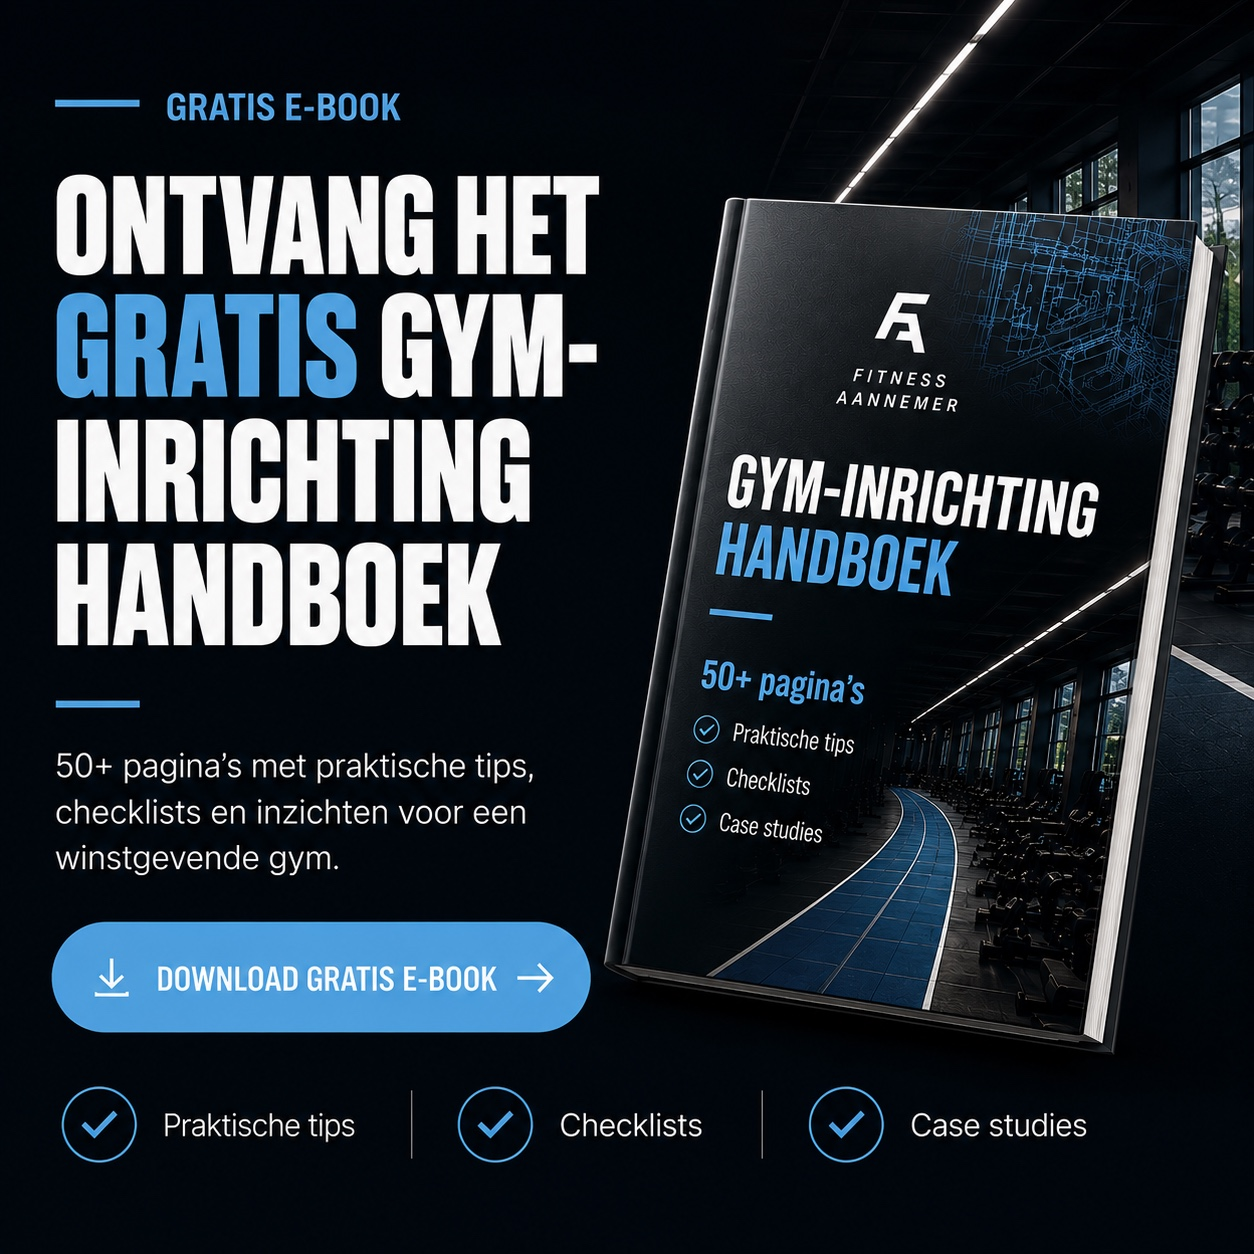
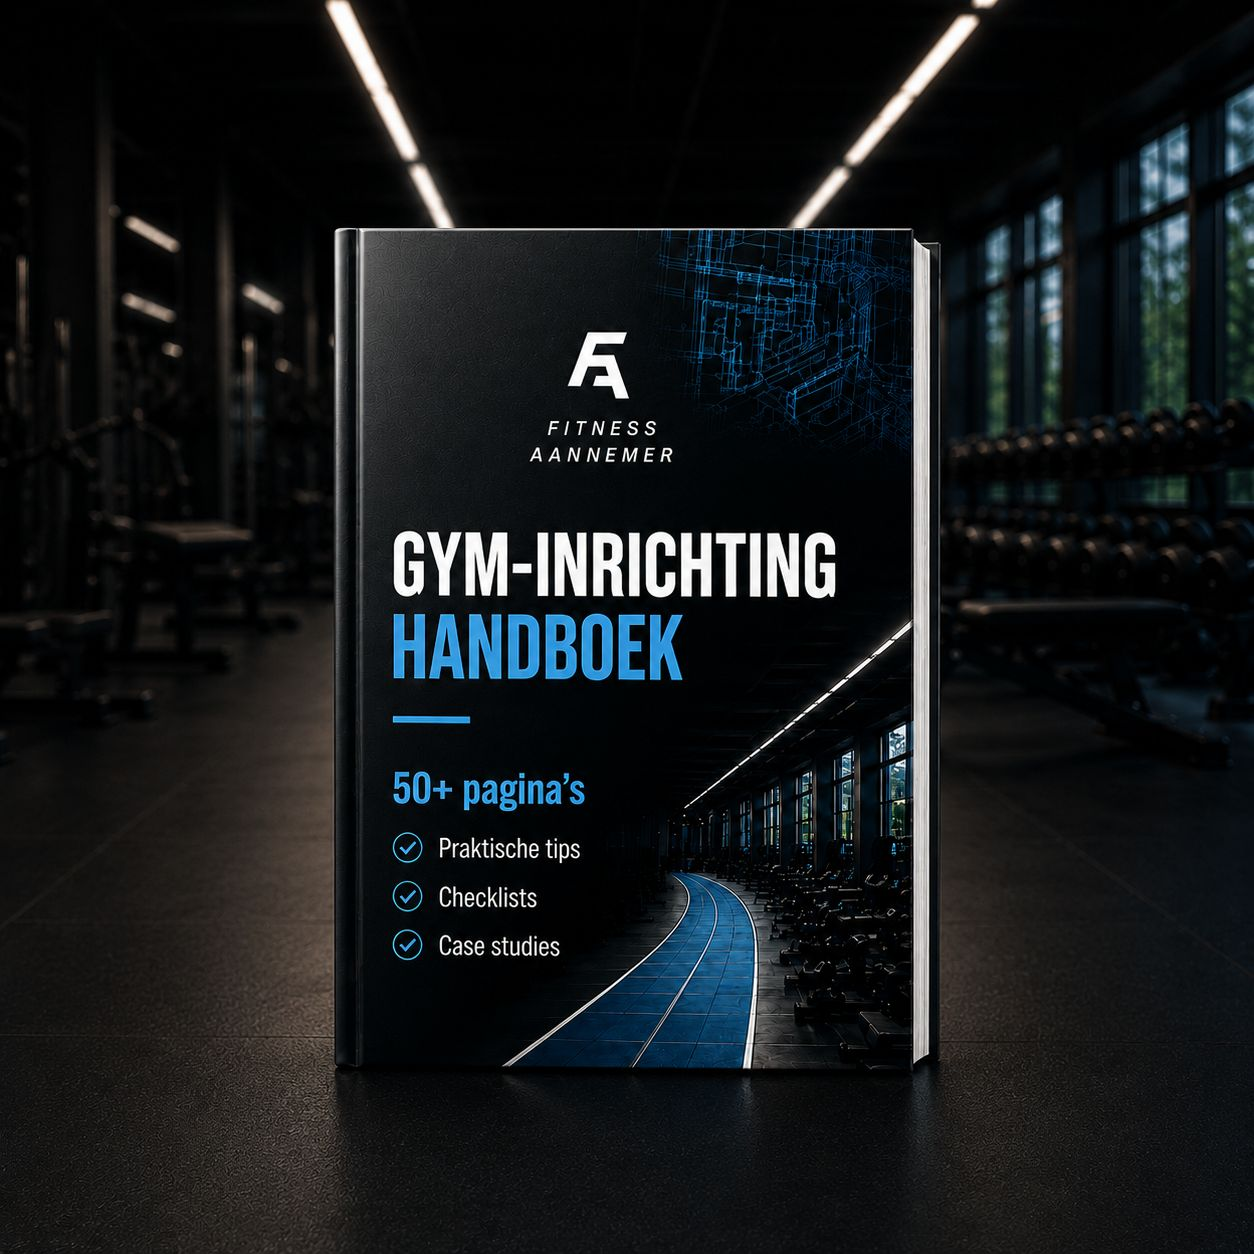
Laatste versie

diff --git a/resources/views/welcome.blade.php b/resources/views/welcome.blade.php
@@ -924,23 +924,59 @@
         </section>
 
         {{-- Lease CTA Banner --}}
-        <section class="bg-primary relative overflow-hidden">
-            <div class="absolute inset-0 bg-gradient-to-r from-primary via-primary to-[#3d8ec5]"></div>
-            <div class="absolute inset-0 opacity-[0.06]" style="background-image: radial-gradient(circle at 20% 50%, white 1px, transparent 1px), radial-gradient(circle at 80% 50%, white 1px, transparent 1px); background-size: 40px 40px;"></div>
-            <div class="max-w-7xl mx-auto px-4 sm:px-6 py-10 lg:py-14 relative z-10">
-                <div class="flex flex-col lg:flex-row items-center justify-between gap-6 lg:gap-12">
-                    <div class="flex items-center gap-5 lg:gap-6">
-                        <div class="w-14 h-14 rounded-2xl bg-white/15 flex items-center justify-center shrink-0">
-                            <i class="fa-solid fa-coins text-white text-xl"></i>
-                        </div>
-                        <div>
-                            <h3 class="text-white text-xl sm:text-2xl font-bold leading-tight">Liever leasen dan kopen?</h3>
-                            <p class="text-white/70 text-sm mt-1">Start direct met topapparatuur en spreid de kosten. Flexibele lease vanaf 3 jaar.</p>
+        <section class="bg-white py-16 lg:py-24" data-header-light>
+            <div class="max-w-7xl mx-auto px-4 sm:px-6">
+                <div class="relative rounded-2xl overflow-hidden bg-secondary">
+                    {{-- Background gym image (right side) --}}
+                    <div class="absolute inset-0">
+                        <img src="{{ asset('assets/4.jpg') }}" alt="" class="w-full h-full object-cover opacity-50">
+                        <div class="absolute inset-0 bg-gradient-to-r from-secondary via-secondary/95 to-transparent"></div>
+                    </div>
+
+                    {{-- Content --}}
+                    <div class="relative z-10 px-8 sm:px-12 lg:px-16 py-12 lg:py-16">
+                        <div class="max-w-lg">
+                            <div class="flex items-center gap-3 mb-5">
+                                <div class="w-8 h-[2px] bg-primary"></div>
+                                <span class="text-primary text-[11px] font-semibold uppercase tracking-widest">Lease & financiering</span>
+                            </div>
+                            <h2 class="text-white text-3xl sm:text-4xl lg:text-5xl font-bold leading-[1.05] mb-4">Liever <span class="text-primary">leasen</span><br>dan kopen?</h2>
+                            <p class="text-white/50 text-sm leading-relaxed max-w-sm mb-6">Start direct met topapparatuur zonder grote investering. Flexibele leaseoplossingen afgestemd op jouw situatie.</p>
+                            <a href="{{ url('/diensten/leasing-en-financiering') }}" class="inline-flex items-center bg-primary hover:bg-primary/90 rounded-full px-6 py-3.5 text-white text-xs font-semibold transition">Bekijk leaseopties <i class="fa-solid fa-arrow-right text-xs ml-2"></i></a>
                         </div>
                     </div>
-                    <div class="flex items-center gap-3 shrink-0">
-                        <a href="{{ url('/diensten/leasing-en-financiering') }}" class="bg-white text-primary text-xs font-semibold rounded-full px-6 py-3.5 hover:bg-white/90 transition whitespace-nowrap">Bekijk leaseopties <i class="fa-solid fa-arrow-right text-[10px] ml-1.5"></i></a>
-                        <a href="{{ url('/offerte-aanvragen') }}" class="bg-white/15 border border-white/25 text-white text-xs font-semibold rounded-full px-6 py-3.5 hover:bg-white/25 transition whitespace-nowrap">Offerte aanvragen</a>
+
+                    {{-- Bottom feature bar --}}
+                    <div class="relative z-10 bg-primary/90 backdrop-blur-sm px-8 sm:px-12 lg:px-16 py-4">
+                        <div class="grid grid-cols-1 sm:grid-cols-3 gap-4">
+                            <div class="flex items-center gap-3">
+                                <div class="w-9 h-9 rounded-full bg-white/20 flex items-center justify-center shrink-0">
+                                    <i class="fa-solid fa-clock text-white text-xs"></i>
+                                </div>
+                                <div>
+                                    <span class="text-white text-[11px] font-bold uppercase tracking-wide block">Flexibele looptijden</span>
+                                    <p class="text-white/60 text-[10px]">Niet vof de looptijd past bij jouw situatie</p>
+                                </div>
+                            </div>
+                            <div class="flex items-center gap-3">
+                                <div class="w-9 h-9 rounded-full bg-white/20 flex items-center justify-center shrink-0">
+                                    <i class="fa-solid fa-piggy-bank text-white text-xs"></i>
+                                </div>
+                                <div>
+                                    <span class="text-white text-[11px] font-bold uppercase tracking-wide block">Geen grote investering</span>
+                                    <p class="text-white/60 text-[10px]">Spreid het bedrag (af)houd je financiele ruimte</p>
+                                </div>
+                            </div>
+                            <div class="flex items-center gap-3">
+                                <div class="w-9 h-9 rounded-full bg-white/20 flex items-center justify-center shrink-0">
+                                    <i class="fa-solid fa-headset text-white text-xs"></i>
+                                </div>
+                                <div>
+                                    <span class="text-white text-[11px] font-bold uppercase tracking-wide block">Persoonlijk advies</span>
+                                    <p class="text-white/60 text-[10px]">Wij begeleiden met je vanuit advies en oplossing op maat</p>
+                                </div>
+                            </div>
+                        </div>
                     </div>
                 </div>
             </div>